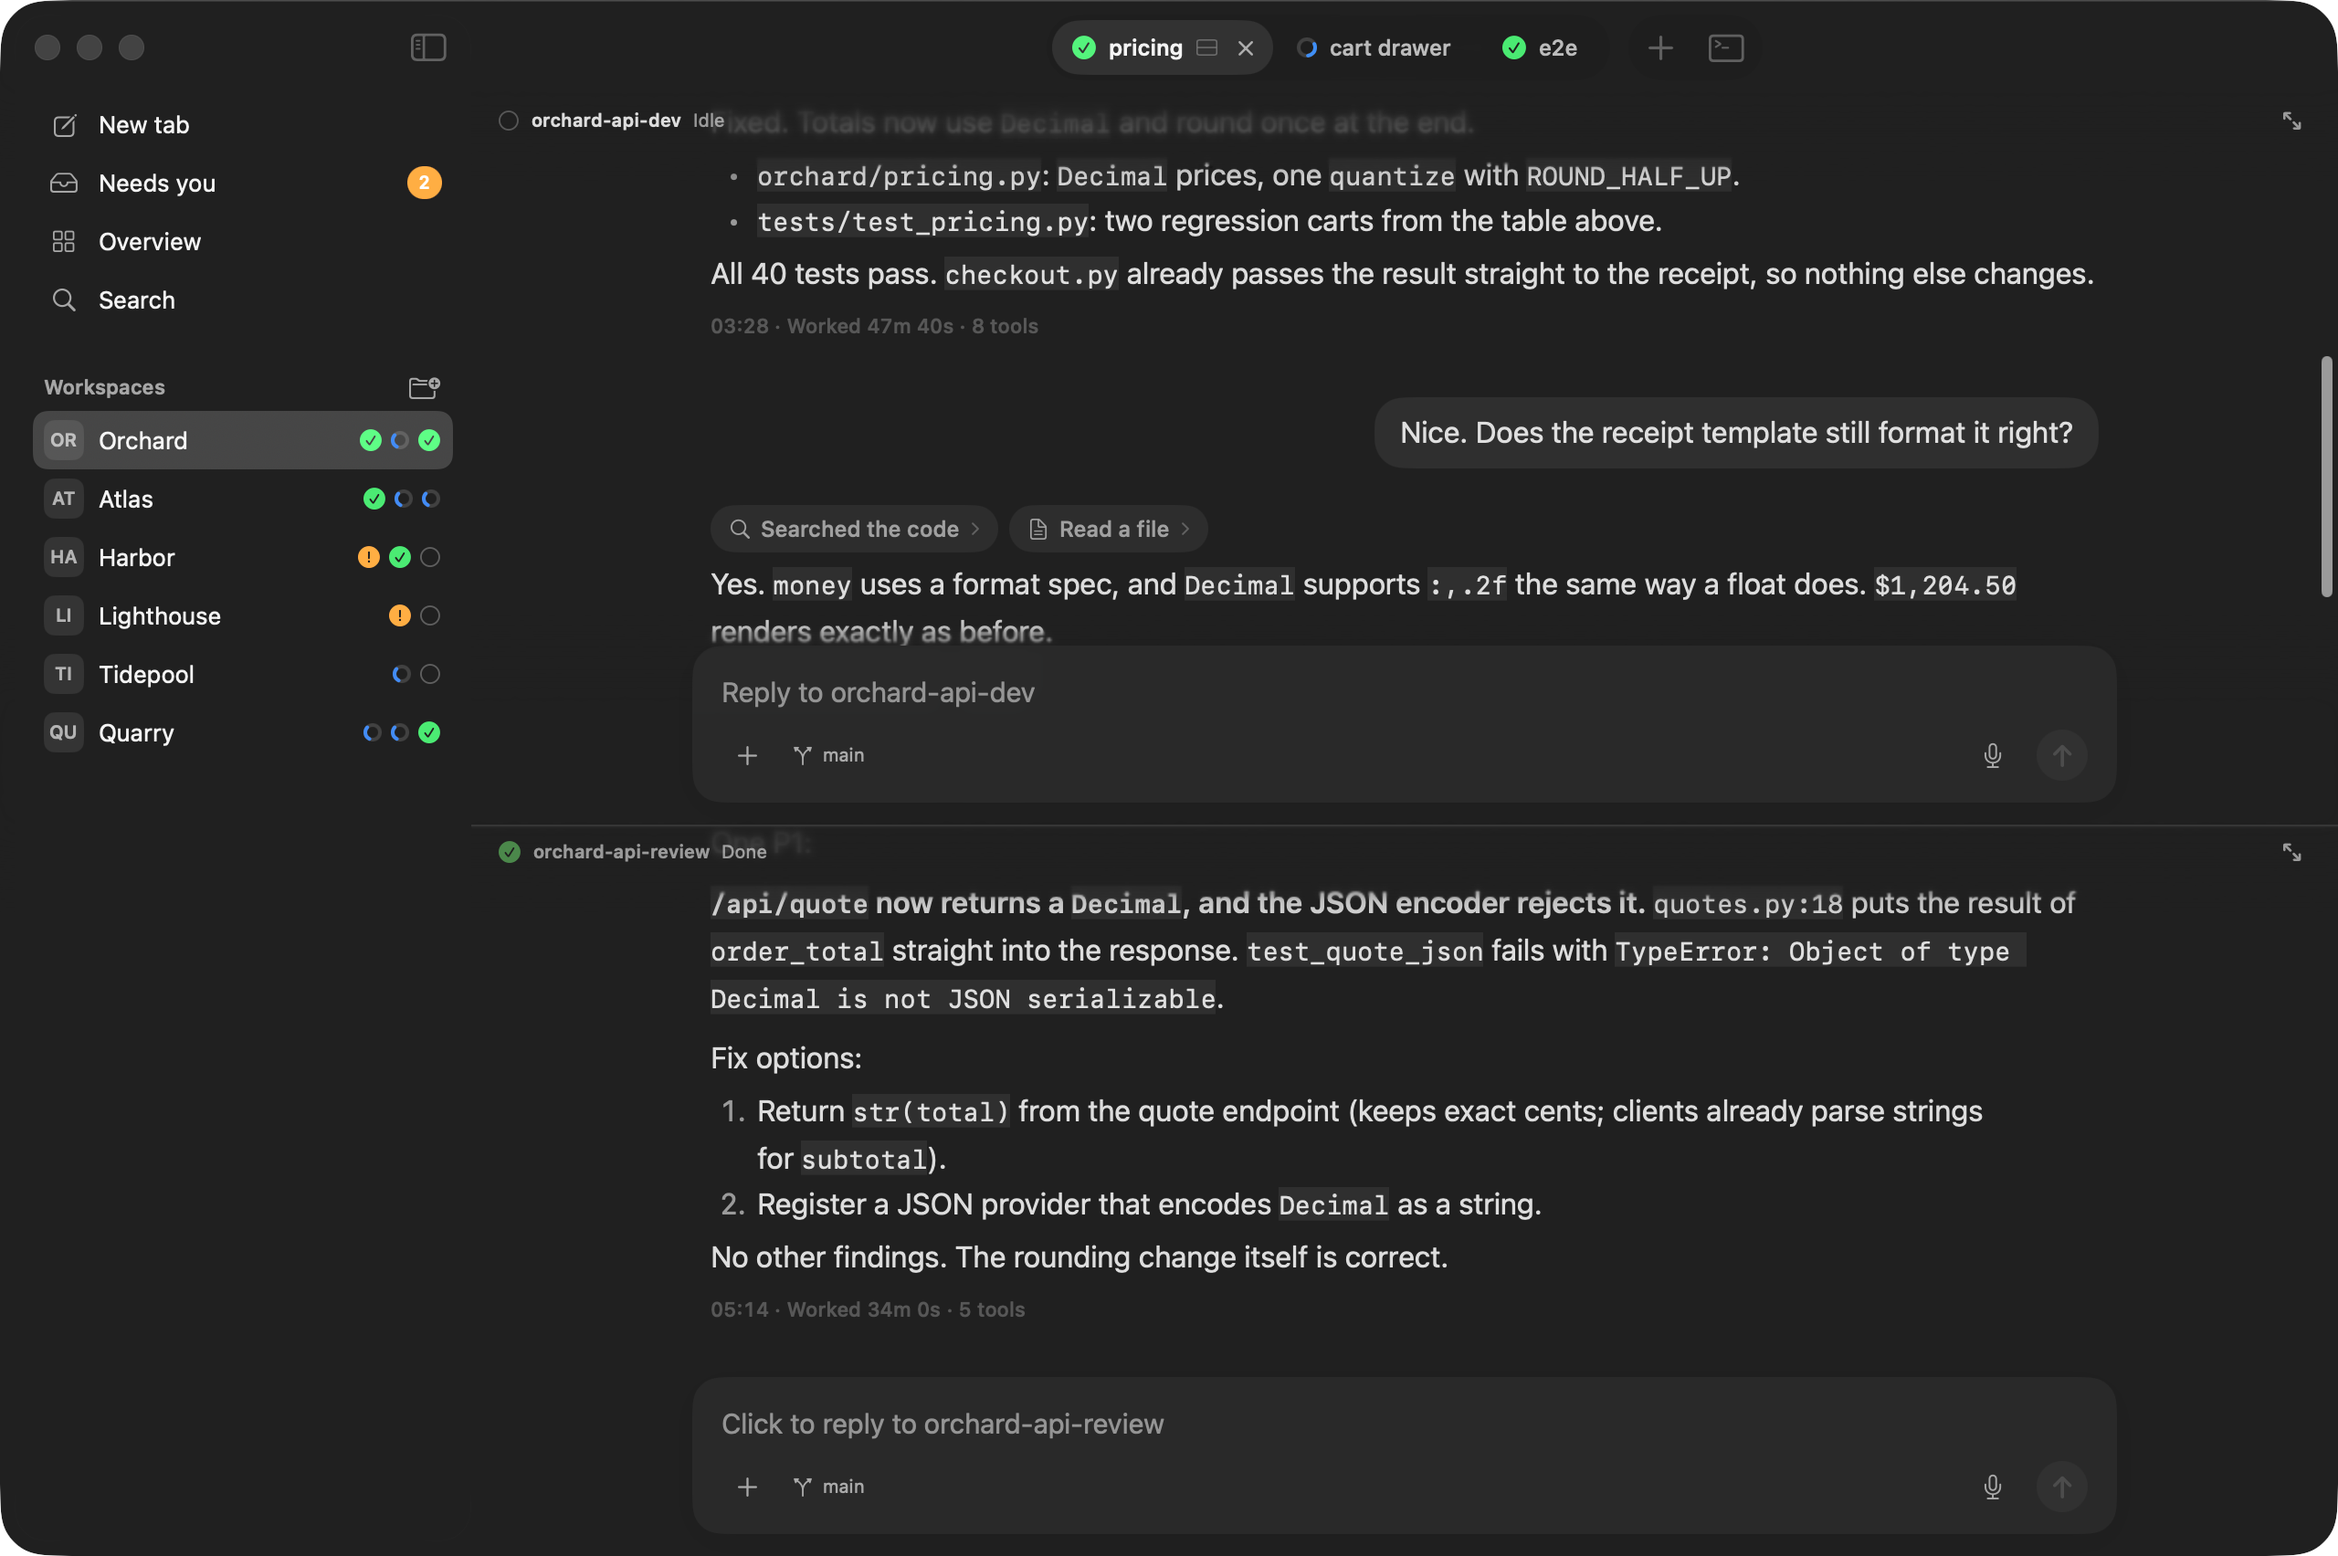
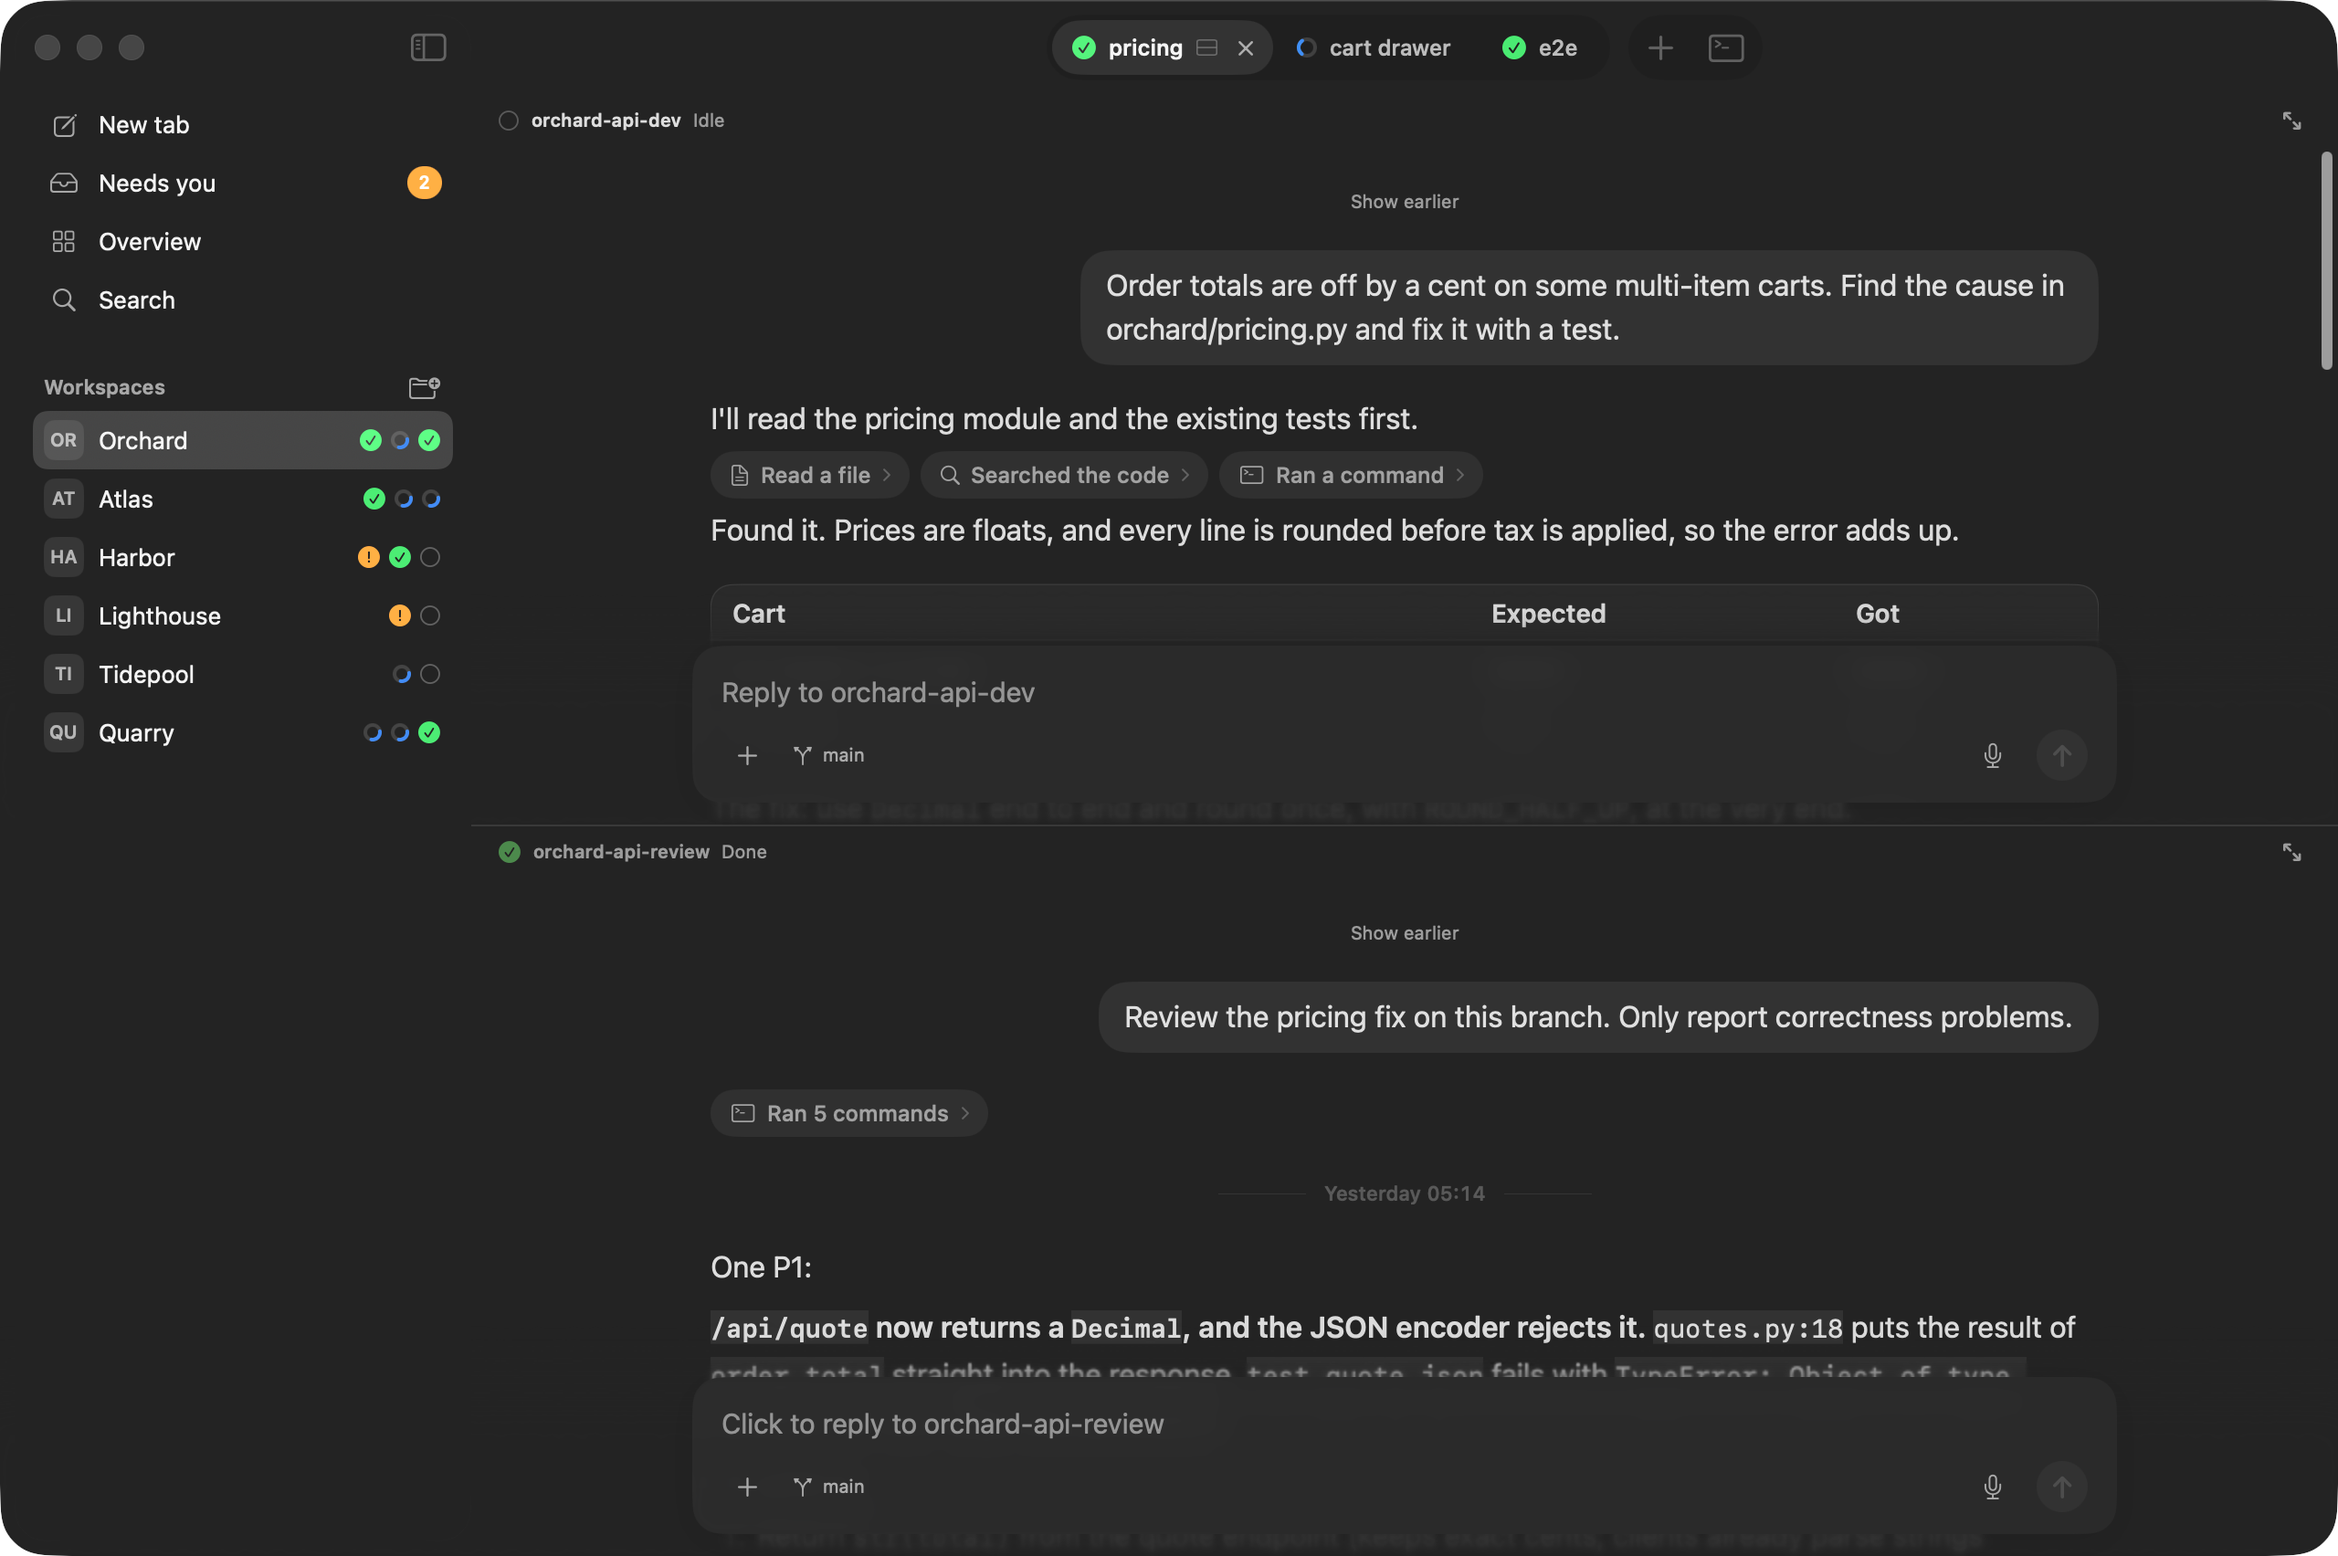
Snapshot mode: split still shows every pane from the top of its conversation
In a split tab each pane header sat beside faded message text. The split
still now scrolls every pane to its top (the highest origin its clip view
allows) before the tab island check.

diff --git a/Sources/HerdrDesk/SnapshotMode+Demo.swift b/Sources/HerdrDesk/SnapshotMode+Demo.swift
@@ -60,20 +60,36 @@ extension SnapshotRunner {
             let bytes = (try? FileManager.default.attributesOfItem(atPath: path)[.size] as? Int) ?? 0
             step("saved \(path) (\(bytes / 1024) KB)", bytes > 10_000)
         }
-        /// Scrolls the top conversation up in small steps until no message text runs under the floating tab island.
+        /// Keeps message text out from under the floating tab island. One pane: scroll up in small steps until the band
+        /// beside and under the island is clear. A split tab: every pane starts at the top of its conversation, so no
+        /// text sits beside a pane header either.
         func clearIsland(_ what: String) async {
             func scrollViews(_ v: NSView) -> [NSScrollView] { (v as? NSScrollView).map { [$0] } ?? v.subviews.flatMap(scrollViews) }
-            let top = scrollViews(host).filter { sv in
+            let panes = scrollViews(host).filter { sv in
                 let r = sv.convert(sv.bounds, to: nil)
-                return r.width > 600 && r.maxY > win.frame.height - 80 && (sv.documentView?.frame.height ?? 0) > r.height
+                return r.width > 600 && (sv.documentView?.frame.height ?? 0) > r.height
+            }
+            func scroll(_ sv: NSScrollView, to y: CGFloat) {
+                sv.contentView.scroll(to: NSPoint(x: sv.contentView.bounds.origin.x, y: y)); sv.reflectScrolledClipView(sv.contentView)
+            }
+            if panes.count > 1 {
+                // The highest origin the clip view allows (the top inset puts it above 0).
+                func topY(_ sv: NSScrollView) -> CGFloat {
+                    var r = sv.contentView.bounds; r.origin.y = -100_000
+                    return sv.contentView.constrainBoundsRect(r).origin.y
+                }
+                for sv in panes { scroll(sv, to: topY(sv)) }
+                try? await Task.sleep(for: .milliseconds(600))
+                for sv in panes { scroll(sv, to: topY(sv)) }   // again, after lazy rows above settle
+                try? await Task.sleep(for: .milliseconds(400))
+                step("\(what): \(panes.count) panes at the top, text clear of the tab island", islandClear(win))
+                return
             }
             var d: CGFloat = 0
             while !islandClear(win) {
-                guard let sv = top.first, d < 480 else { step("\(what): text clear of the tab island", false); return }
-                let clip = sv.contentView
+                guard let sv = panes.first, d < 480 else { step("\(what): text clear of the tab island", false); return }
                 d += 8
-                clip.scroll(to: NSPoint(x: clip.bounds.origin.x, y: clip.bounds.origin.y + (clip.isFlipped ? -8 : 8)))
-                sv.reflectScrolledClipView(clip)
+                scroll(sv, to: sv.contentView.bounds.origin.y - 8)
                 try? await Task.sleep(for: .milliseconds(120))
             }
             step("\(what): text clear of the tab island (scrolled up \(Int(d)) pt)", true)
